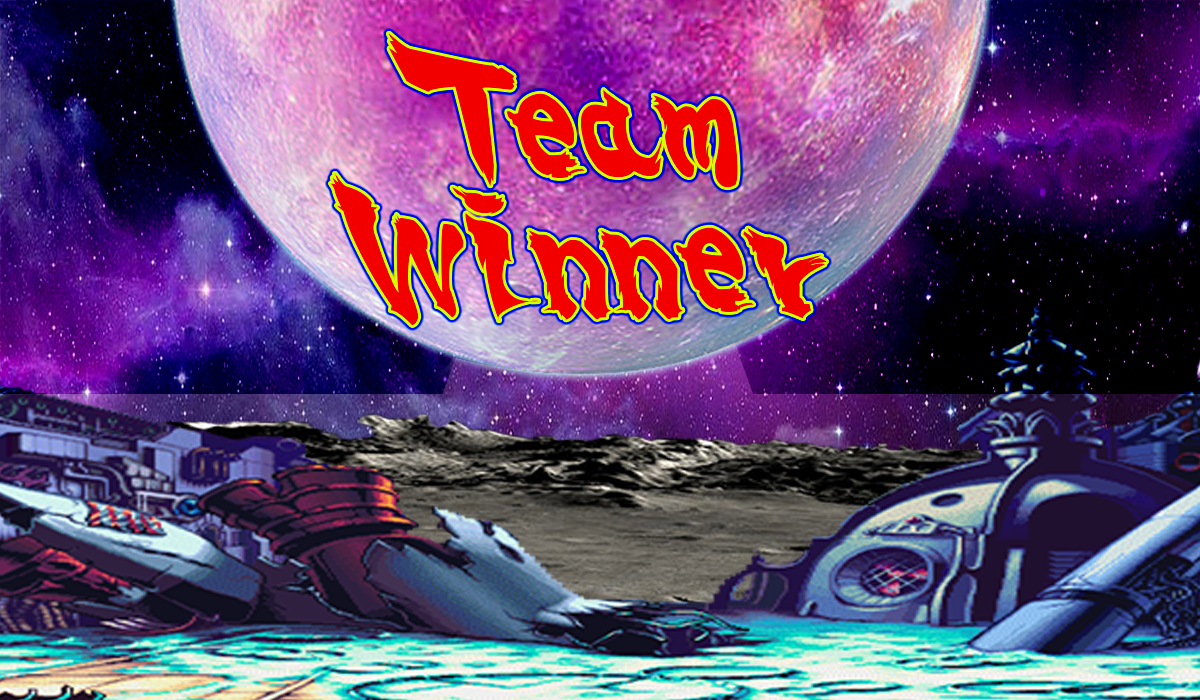
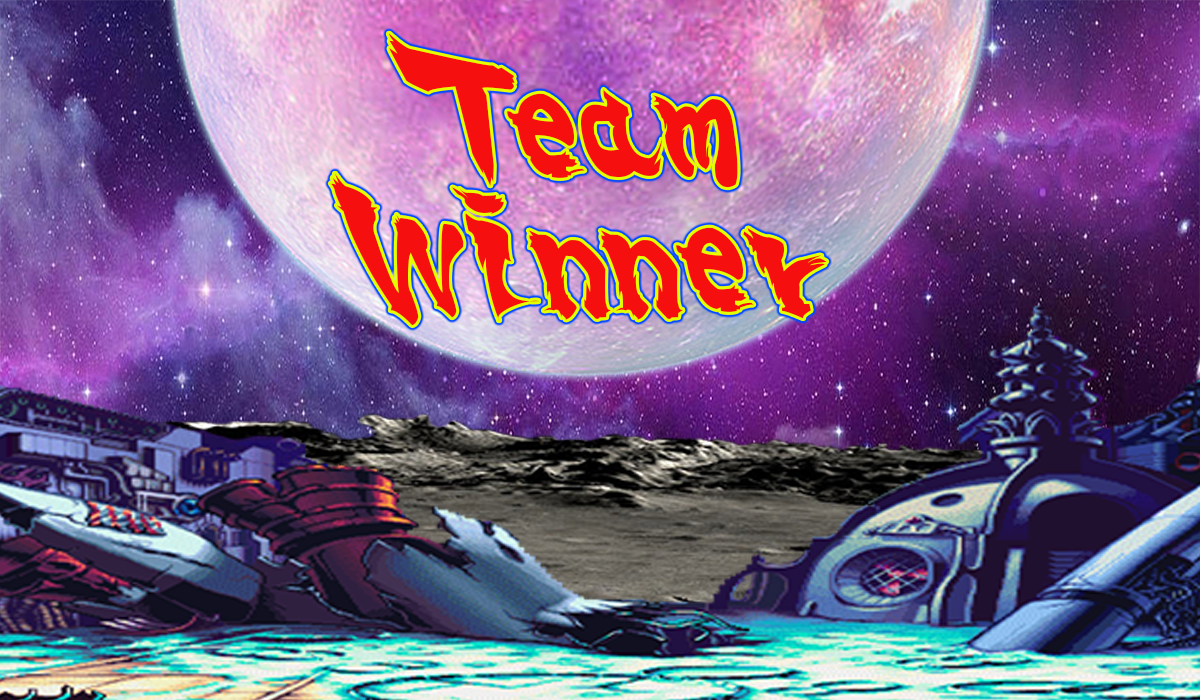
actualizacion final imagenes

diff --git a/model/Game/GameObjectFactory/GameObjectFactory.cpp b/model/Game/GameObjectFactory/GameObjectFactory.cpp
@@ -355,8 +355,11 @@ vector<GameObject *> GameObjectFactory::getGameObject_endGame() {
     positionToTake = {0,306, 1200, 306};
     vs->setOriginRect(positionToTake);
 
+    GameObject* ilumination  = new GameObject("../Images/winner/Ilumination.png","sv",99,renderer, 0, 0, 1200,700);
+    positionToTake = {0,0, 1200, 700};
+    vs->setOriginRect(positionToTake);
 
-    vector<GameObject *> gameObjects = {background, ac, av, as, cv, cs, vs};
+    vector<GameObject *> gameObjects = {background, ac, av, as, cv, cs, vs, ilumination};
     return gameObjects ;
 }
 
